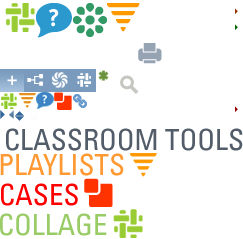
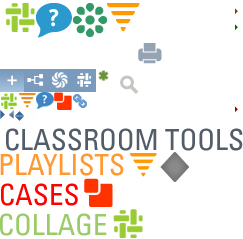
First pass at desc / asc sort and integration into back button behavior.

Changed region(s): [[0.6626, 0.6151, 0.7778, 0.7615]]

diff --git a/public/javascripts/ui.js b/public/javascripts/ui.js
@@ -190,11 +190,10 @@ jQuery.extend({
       e.preventDefault();
     });
   },
-  listResults: function(href, data, region) {
+  listResults: function(href, region) {
     jQuery.ajax({
       type: 'GET',
       dataType: 'html',
-      data: data,
       url: href,
       beforeSend: function(){
            jQuery.showGlobalSpinnerNode();
@@ -221,43 +220,50 @@ jQuery.extend({
     });
   },
   observeSort: function() {
-    jQuery('.sort select').selectbox({
-      className: "jsb", replaceInvisible: true 
-    }).change(function() {
-      var element = jQuery(this);
+    jQuery('.sort-asc,.sort-desc').click(function(e) {
+      e.preventDefault();
       var data = {};
       var region = '#all_' + jQuery.classType();
       if(jQuery('#bbase').length || jQuery('#busers').length) {
-        jQuery('.songs > ul').each(function(i, el) {
-          if(jQuery(el).css('display') != 'none') {
-            region = '#' + jQuery(el).attr('id');
-            data.ajax_region = jQuery(el).attr('id').replace(/^all_/, '');
-          }
-        });
-      } else {
-        data.ajax_region = jQuery.classType();
+        region = '#' + jQuery('.songs > ul:visible').attr('id');
       }
-      data.sort = element.val();
+      var ajax_region = region.replace(/#all_/, '');
+      var sort = jQuery(this).parent().parent().find('select').val();
+
+      var url = document.location.pathname;
       if(document.location.search != '') {
-        jQuery.listResults(document.location.pathname + document.location.search + "&ajax_region=" + data.ajax_region + "&sort=" + data.sort, data, region);
+        url += document.location.search + "&ajax_region=" + ajax_region + "&sort=" + sort + "&order=" + jQuery(this).data('val');
       } else {
-        jQuery.listResults(document.location.pathname + "?ajax_region=" + data.ajax_region + "&sort=" + data.sort, data, region);
+        url += "?ajax_region=" + ajax_region + "&sort=" + sort + "&order=" + jQuery(this).data('val');
       }
+      jQuery.listResults(url, region);
+    });
+    jQuery('.sort select').selectbox({
+      className: "jsb", replaceInvisible: true 
+    }).change(function() {
+      var region = '#all_' + jQuery.classType();
+      if(jQuery('#bbase').length || jQuery('#busers').length) {
+        region = '#' + jQuery('.songs > ul:visible').attr('id');
+      }
+      var sort = jQuery(this).val();
+      var ajax_region = region.replace(/^#all_/, '');
+      var url = document.location.pathname;
+      if(document.location.search != '') {
+        url += document.location.search + "&ajax_region=" + ajax_region + "&sort=" + sort;
+      } else {
+        url += "?ajax_region=" + ajax_region + "&sort=" + sort;
+      }
+      jQuery.listResults(url, region);
     });
   },
   observePagination: function(){
     jQuery('.pagination a').click(function(e){
       e.preventDefault();
-      var element = jQuery(this); 
-      var data = {};
       var region = '#all_' + jQuery.classType();
       if(jQuery('#bbase').length || jQuery('#busers').length) {
-        data.ajax_region = element.closest('div').data('type');
         region = '#all_' + element.closest('div').data('type');
-      } else {
-        data.ajax_region = jQuery.classType();
       }
-      jQuery.listResults(element.attr('href'), data, region);
+      jQuery.listResults(jQuery(this).attr('href'), region);
     });
   },
 
@@ -656,8 +662,7 @@ jQuery(function() {
   jQuery.initializeTabBehavior();
 
   if(document.location.hash.match('ajax_region=') || document.location.hash.match('page=')) {
-    var data = {};
-    var region = '';
+    var region = '#all_' + jQuery.classType();
     if(jQuery('#bbase').length || jQuery('#busers').length) {
       region = '#all_' + jQuery.address.value().match(/ajax_region=[a-z]+/, '').toString().replace('ajax_region=', '');
       jQuery('.tabs a').each(function(i, el) {
@@ -665,11 +670,8 @@ jQuery(function() {
           jQuery(el).click();
         }
       });
-    } else {
-      region = '#all_' + jQuery.classType();
     }
-    data.ajax_region = region.replace(/#all_/, '');
-    jQuery.listResults(jQuery.address.value(), data, region);
+    jQuery.listResults(jQuery.address.value(), region);
   }
   //For Now, this is disabled. If set to true,
   //code updates are required to work with back button

diff --git a/public/stylesheets/ui.css b/public/stylesheets/ui.css
@@ -435,3 +435,7 @@ text-indent: 0px; width: auto; height: auto; border: 1px solid #6D87A2; }
 background: url(/images/ui/app_icons.png) -129px -38px; border-bottom:0;
 z-index: 100; padding: 0px 8px 0px 8px; position: relative; }
 
+.sort_ad { display: inline; margin-left: 3px; }
+.sort_ad a { display: inline-block; height: 6px; width: 8px; }
+.sort-asc { background: url(/images/ui/app_icons.png) -15px -110px; }
+.sort-desc { background: url(/images/ui/app_icons.png) -15px -116px; }

diff --git a/app/controllers/base_controller.rb b/app/controllers/base_controller.rb
@@ -22,7 +22,7 @@ class BaseController < ApplicationController
       t = obj.hits.inject([]) { |arr, h| arr.push([h.stored(:id), h.stored(:display_name)]); arr }
       @objects = WillPaginate::Collection.create(params[:page], 25, obj.total) { |pager| pager.replace(t) } 
     else
-      @objects = Rails.cache.fetch("#{model.to_s.tableize}-embedded-search-#{params[:page]}--display_name") do
+      @objects = Rails.cache.fetch("#{model.to_s.tableize}-embedded-search-#{params[:page]}--display_name-asc") do
         obj = Sunspot.new_search(model)
         obj.build do
           paginate :page => params[:page], :per_page => 25 || nil
@@ -43,86 +43,85 @@ class BaseController < ApplicationController
   def index
     tcount = Case.find_by_sql("SELECT COUNT(*) AS tcount FROM taggings")
     @counts = {
-		:cases => Case.count,
-		:text_blocks => TextBlock.count,
-		:collages => Collage.count,
-		:annotation => Annotation.count,
-		:questions => Question.count,
-		:rotisseries => RotisserieInstance.count,
-		:taggings => tcount[0]['tcount'] 
-	}
+    :cases => Case.count,
+    :text_blocks => TextBlock.count,
+    :collages => Collage.count,
+    :annotation => Annotation.count,
+    :questions => Question.count,
+    :rotisseries => RotisserieInstance.count,
+    :taggings => tcount[0]['tcount'] 
+  }
   end
 
   def search
     set_sort_lists
-	  if !params.has_key?(:sort)
-	    params[:sort] = "display_name"
-	  end
+    params[:sort] ||= 'display_name'
+    params[:order] ||= 'asc'
 
     if !request.xhr? || params[:ajax_region] == 'playlists'
       @playlists = Sunspot.new_search(Playlist)
-	  @playlists.build do
-	    if params.has_key?(:keywords)
+      @playlists.build do
+        if params.has_key?(:keywords)
           keywords params[:keywords]
         end
-	    with :public, true
-	    paginate :page => params[:page], :per_page => cookies[:per_page] || nil
-	    order_by params[:sort].to_sym, :asc
-	  end
-	  @playlists.execute!
-	end
+        with :public, true
+        paginate :page => params[:page], :per_page => cookies[:per_page] || nil
+        order_by params[:sort].to_sym, params[:order].to_sym
+      end
+      @playlists.execute!
+    end
 
     if !request.xhr? || params[:ajax_region] == 'collages'
-	  @collages = Sunspot.new_search(Collage)
-	  @collages.build do
-	    if params.has_key?(:keywords)
-	      keywords params[:keywords]
-	    end
-	    with :public, true
-	    with :active, true
-	    paginate :page => params[:page], :per_page => cookies[:per_page] || nil
+      @collages = Sunspot.new_search(Collage)
+      @collages.build do
+        if params.has_key?(:keywords)
+          keywords params[:keywords]
+        end
+        with :public, true
+        with :active, true
+        paginate :page => params[:page], :per_page => cookies[:per_page] || nil
 
-	    order_by params[:sort].to_sym, :asc
-	  end
+        order_by params[:sort].to_sym, params[:order].to_sym
+      end
       @collages.execute!
-	end
+    end
 
     if !request.xhr? || params[:ajax_region] == 'cases'
-	  @cases = Sunspot.new_search(Case)
-	  @cases.build do
-	    if params.has_key?(:keywords)
-	      keywords params[:keywords]
-	    end
-	    with :public, true
-	    with :active, true
-	    paginate :page => params[:page], :per_page => cookies[:per_page] || nil
-
-	    order_by params[:sort].to_sym, :asc
-	  end
+      @cases = Sunspot.new_search(Case)
+      @cases.build do
+        if params.has_key?(:keywords)
+          keywords params[:keywords]
+        end
+        with :public, true
+        with :active, true
+        paginate :page => params[:page], :per_page => cookies[:per_page] || nil
+ 
+        order_by params[:sort].to_sym, params[:order].to_sym
+      end
       @cases.execute!
-	end
+    end
 
-	if current_user
+    if current_user
       @is_case_admin = current_user.roles.find(:all, :conditions => {:authorizable_type => nil, :name => ['admin','case_admin','superadmin']}).length > 0
-	  @is_collage_admin = current_user.roles.find(:all, :conditions => {:authorizable_type => nil, :name => ['admin','collage_admin','superadmin']}).length > 0
-	  @my_collages = current_user.collages
-	  @my_playlists = current_user.playlists
-	  @my_cases = current_user.cases
-	else
-	  @is_collage_admin = @is_case_admin = false
-	  @my_collages = @my_playlists = @my_cases = []
-	end
+      @is_collage_admin = current_user.roles.find(:all, :conditions => {:authorizable_type => nil, :name => ['admin','collage_admin','superadmin']}).length > 0
+      @my_collages = current_user.collages
+      @my_playlists = current_user.playlists
+      @my_cases = current_user.cases
+    else
+      @is_collage_admin = @is_case_admin = false
+      @my_collages = @my_playlists = @my_cases = []
+    end
 
     playlist_admin_preload
 
-	respond_to do |format|
-	  format.html do
-	    if request.xhr?
-		  render :partial => "#{params[:ajax_region]}/#{params[:ajax_region]}_block"
-		else
-		  render 'search'
-		end
-	  end
-	end
+    respond_to do |format|
+      format.html do
+        if request.xhr?
+          render :partial => "#{params[:ajax_region]}/#{params[:ajax_region]}_block"
+        else
+          render 'search'
+        end
+      end
+    end
   end
 end

diff --git a/app/controllers/users_controller.rb b/app/controllers/users_controller.rb
@@ -52,20 +52,33 @@ class UsersController < ApplicationController
     end
 
     params[:sort] ||=  'display_name'
+    params[:order] ||= 'asc'
 
     #This is added for an optimization, to avoid lookup roles / authors of each item
     params[:sort] = 'name' if params[:sort] == 'display_name'
 
     if !request.xhr? || params[:ajax_region] == 'playlists'
-      @playlists = @user.playlists.sort_by { |p| p.send(params[:sort]).to_s.downcase }.paginate :page => params[:page], :per_page => 25
+      p = @user.playlists.sort_by { |p| p.send(params[:sort]).to_s.downcase }
+      if(params[:order] == 'desc') 
+        p = p.reverse
+      end
+      @playlists = p.paginate :page => params[:page], :per_page => 25
     end
 
     if !request.xhr? || params[:ajax_region] == 'collages'
-      @collages = @user.collages.sort_by { |c| c.send(params[:sort]).to_s.downcase }.paginate :page => params[:page], :per_page => 25
+      p = @user.collages.sort_by { |c| c.send(params[:sort]).to_s.downcase }
+      if(params[:order] == 'desc') 
+        p = p.reverse
+      end
+      @collages = p.paginate :page => params[:page], :per_page => 25
     end
 
     if !request.xhr? || params[:ajax_region] == 'cases'
-       @cases = @user.cases.sort_by { |c| c.send(params[:sort]).to_s.downcase }.paginate :page => params[:page], :per_page => 25
+       @cases = @user.cases.sort_by { |c| c.send(params[:sort]).to_s.downcase }
+      if(params[:order] == 'desc') 
+        p = p.reverse
+      end
+       @cases = p.paginate :page => params[:page], :per_page => 25
     end
 
     if current_user

diff --git a/app/controllers/collages_controller.rb b/app/controllers/collages_controller.rb
@@ -66,7 +66,7 @@ class CollagesController < BaseController
       with :public, true
       with :active, true
       paginate :page => params[:page], :per_page => 25
-      order_by params[:sort].to_sym, :asc
+      order_by params[:sort].to_sym, params[:order].to_sym
     end
     collages.execute!
     collages
@@ -75,13 +75,15 @@ class CollagesController < BaseController
   def index
     params[:page] ||= 1
     params[:sort] ||= 'display_name'
+    params[:order] ||= 'asc'
+    logger.warn "steph: #{params.inspect}"
 
     if params[:keywords]
       collages = build_search(params)
       t = collages.hits.inject([]) { |arr, h| arr.push(h.result); arr }
       @collages = WillPaginate::Collection.create(params[:page], 25, collages.total) { |pager| pager.replace(t) }
     else
-      @collages = Rails.cache.fetch("collages-search-#{params[:page]}-#{params[:tag]}-#{params[:sort]}") do 
+      @collages = Rails.cache.fetch("collages-search-#{params[:page]}-#{params[:tag]}-#{params[:sort]}-#{params[:order]}") do 
         collages = build_search(params)
         t = collages.hits.inject([]) { |arr, h| arr.push(h.result); arr }
         { :results => t, 

diff --git a/app/controllers/playlists_controller.rb b/app/controllers/playlists_controller.rb
@@ -53,7 +53,7 @@ class PlaylistsController < BaseController
       end
       with :public, true
       paginate :page => params[:page], :per_page => 25
-      order_by params[:sort].to_sym, :asc
+      order_by params[:sort].to_sym, params[:order].to_sym
     end
     playlists.execute!
     playlists
@@ -64,13 +64,14 @@ class PlaylistsController < BaseController
   def index
     params[:page] ||= 1
     params[:sort] ||= 'display_name'
+    params[:order] ||= 'asc'
 
     if params[:keywords]
       playlists = build_search(params)
       t = playlists.hits.inject([]) { |arr, h| arr.push(h.result); arr }
       @playlists = WillPaginate::Collection.create(params[:page], 25, playlists.total) { |pager| pager.replace(t) }
     else
-      @playlists = Rails.cache.fetch("playlists-search-#{params[:page]}-#{params[:tag]}-#{params[:sort]}") do 
+      @playlists = Rails.cache.fetch("playlists-search-#{params[:page]}-#{params[:tag]}-#{params[:sort]}-#{params[:order]}") do 
         playlists = build_search(params)
         t = playlists.hits.inject([]) { |arr, h| arr.push(h.result); arr }
         { :results => t, 

diff --git a/app/controllers/cases_controller.rb b/app/controllers/cases_controller.rb
@@ -51,7 +51,7 @@ class CasesController < BaseController
       with :public, true
       with :active, true
       paginate :page => params[:page], :per_page => 25
-      order_by params[:sort].to_sym, :asc
+      order_by params[:sort].to_sym, params[:order].to_sym
     end
     cases.execute!
     cases
@@ -62,13 +62,14 @@ class CasesController < BaseController
   def index
     params[:page] ||= 1
     params[:sort] ||= 'display_name'
+    params[:order] ||= 'asc'
 
     if params[:keywords]
       cases = build_search(params)
       t = cases.hits.inject([]) { |arr, h| arr.push(h.result); arr }
       @cases = WillPaginate::Collection.create(params[:page], 25, cases.total) { |pager| pager.replace(t) }
     else
-      @cases = Rails.cache.fetch("cases-search-#{params[:page]}-#{params[:tag]}-#{params[:sort]}") do 
+      @cases = Rails.cache.fetch("cases-search-#{params[:page]}-#{params[:tag]}-#{params[:sort]}-#{params[:order]}") do 
         cases = build_search(params)
         t = cases.hits.inject([]) { |arr, h| arr.push(h.result); arr }
         { :results => t, 
